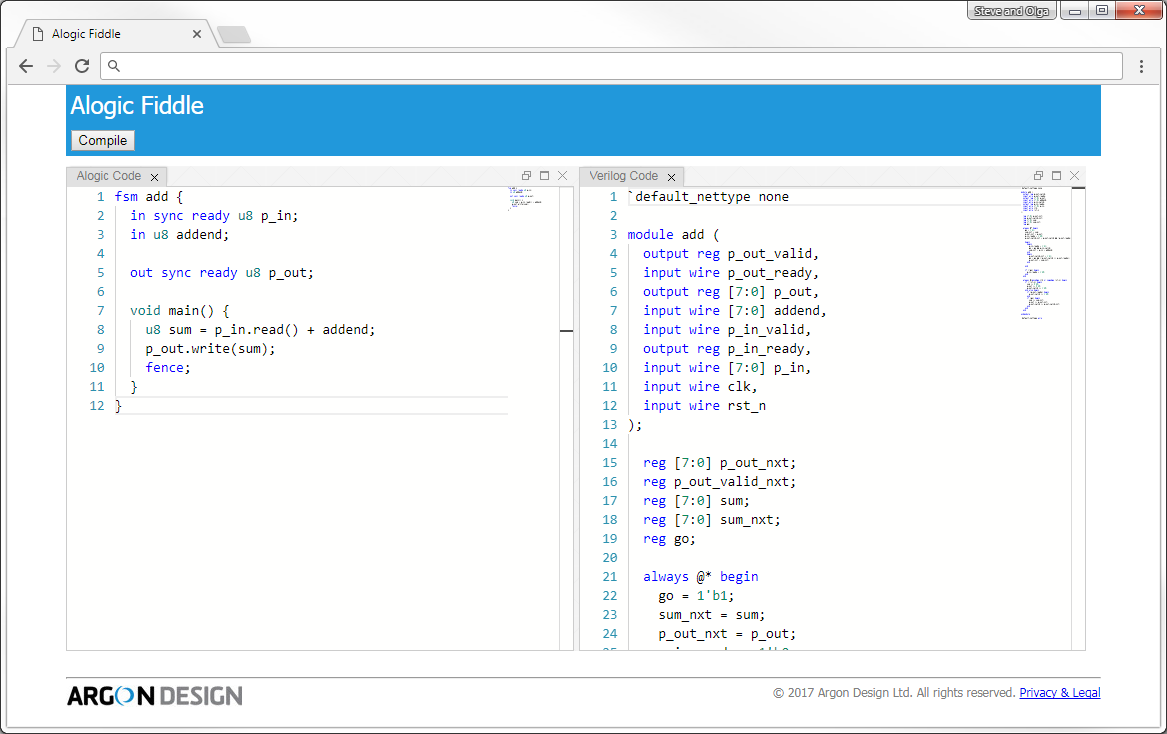
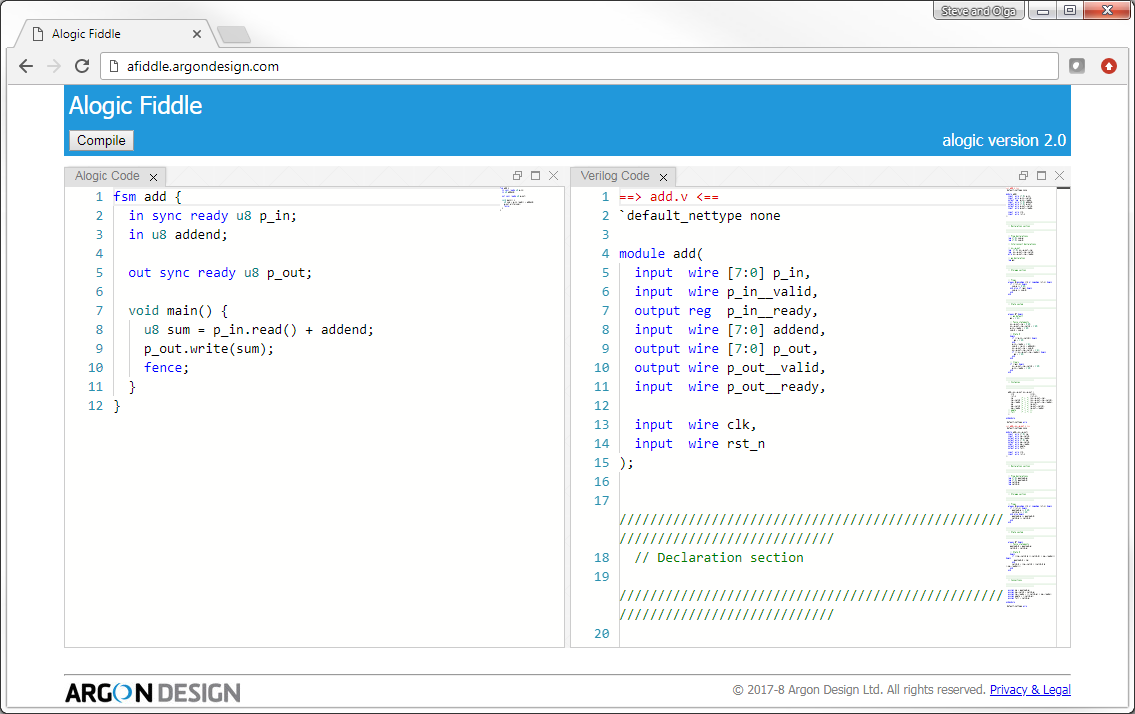
Updated to work with alogic 3.x

diff --git a/app.js b/app.js
@@ -14,6 +14,8 @@
 // Useful websites:
 // https://github.com/ArgonDesign/alogic
 // https://github.com/mattgodbolt/compiler-explorer
+// https://expressjs.com/en/4x/api.html
+// https://codigo.co.uk/blog/post/expressjs-and-moustache
 // https://stackoverflow.com/questions/20643470/execute-a-command-line-binary-with-node-js
 // http://exploringjs.com/es6/ch_promises.html
 // https://stackoverflow.com/questions/40175657/stop-promise-chain-with-multiple-catches
@@ -23,6 +25,7 @@
 
 // External modules used
 const express = require('express')
+const mustacheExpress = require('mustache-express')
 const bodyParser = require('body-parser')
 const fs = require('fs-extra')
 const childProcess = require('child_process')
@@ -73,6 +76,27 @@ function exec (cmd) {
   })
 }
 
+// Find the entity name in an alogic module. The module text is passed as a string
+// in code. Returns the name or if it can't be found, returns null.
+function extractEntityName (code) {
+  // Remove //... comments
+  var tokens = code.replace(/\/\/.*\n/g, '')
+    // Remove /*...*/ comments
+    .replace(/\/\*[^*]*\*\//g, '')
+    // Replace all whitespace with space
+    .replace(/\s/g, ' ')
+    // Tokenise
+    .trim().split(' ')
+  // Get second token
+  var name = tokens[1]
+  // Check name starts with an alphabetic, _ or $ and contains only alphanumerics, _ or $
+  if (name.match(/^[A-Za-z_$][A-Za-z0-9_$]*$/) != null) {
+    return name
+  } else {
+    return null
+  }
+}
+
 // -----------------------------------------------------------------------------
 // Setup for logging
 
@@ -116,9 +140,13 @@ const app = express()
 // Using :req[X-Forwarded-For] rather than :remote-addr so correctly logs IP addresses when used via ngrok
 app.use(morgan(':req[X-Forwarded-For] :method :url :status :response-time ms', { 'stream': logger.stream }))
 
-app.use(express.static('static'))
-app.use(express.static('node_modules'))
-app.use(express.static('bower_components'))
+app.use(express.static(path.join(__dirname, 'static')))
+app.use(express.static(path.join(__dirname, 'node_modules')))
+app.use(express.static(path.join(__dirname, 'bower_components')))
+
+app.engine('mustache', mustacheExpress())
+app.set('view engine', 'mustache')
+app.set('views', path.join(__dirname, 'views'))
 
 app.use(bodyParser.text({ type: 'text/alogic' }))
 
@@ -127,11 +155,21 @@ var runNum = 0
 
 const ALOGIC = path.join(__dirname, 'alogic')
 
+// Get Alogic version string
+var alogicVersion
+exec(ALOGIC + ' --version')
+  .then(function (std) {
+    alogicVersion = std.stdout
+      // Limit to 12 characters
+      .slice(0, 12)
+  }
+)
+
 //
 // *** ENDPOINT '/' - Serve main HTML page
 //
 app.get('/', function (req, res) {
-  res.sendFile('static/index.html', { root: __dirname })
+  res.render('index', { version: alogicVersion })
 })
 
 //
@@ -151,12 +189,13 @@ app.get('/', function (req, res) {
 // Test with curl http://localhost:8000/compile -H content-type:text/alogic --data-binary @test/foo.alogic
 //
 app.post('/compile', function (req, res) {
-  var dir, srcDir, destDir, srcFile
+  var entity, dir, srcDir, destDir, srcFile
   // req.body is {} if the content-type is not recognised so the content couldn't be parsed
   if (isEmpty(req.body)) {
     res.sendStatus(415) // Unsupported media type
   } else {
     logger.log('verbose', 'request:\n' + req.body.trim())
+    entity = extractEntityName(req.body) || 'unknown'
     dir = path.join(RUNPENDIR, pad(runNum, 4))
     runNum += 1
     fs.mkdir(dir)
@@ -169,23 +208,23 @@ app.post('/compile', function (req, res) {
       return fs.mkdir(destDir)
     })
     .then(function () {
-      srcFile = path.join(srcDir, 'input.alogic')
+      srcFile = path.join(srcDir, entity + '.alogic')
       return fs.writeFile(srcFile, req.body)
     })
     .then(function () {
-      return exec(ALOGIC + ' -o ' + destDir + ' ' + srcDir)
+      return exec(ALOGIC + ' -o ' + destDir + ' -y ' + srcDir + ' ' + entity)
       .then(function (std) {
         // Compile success. Results are in files in destDir
         return 'success'
       })
       .catch(function (error) {
-        // alogic compiler reports errors on stdout, rather than stderr
-        var errorMessages = error.stdout
-        // Tidy up path shown in error messages. Convert output like
-        // /home/sjb/P8009_Alogic/afiddle/runpen/0000/alogic/input.alogic:2: ERROR: ...
-        // to input.alogic:2: ERROR: ...
-        var errorMessages1 = errorMessages.replace(/^.*[/]runpen[/]\d\d\d\d[/]alogic[/]/g, '')
-        return errorMessages1
+        // alogic compiler reports errors on stderr
+        var errorMessages = error.stderr
+          // Tidy up path shown in error messages. Convert output like
+          // /home/sjb/P8009_Alogic/afiddle/runpen/0000/alogic/input.alogic:2: ERROR: ...
+          // to input.alogic:2: ERROR: ...
+          .replace(/^.*[/]runpen[/]\d\d\d\d[/]alogic[/]/g, '')
+        return errorMessages
       })
     })
     .then(function (result) {
@@ -196,7 +235,7 @@ app.post('/compile', function (req, res) {
           return std.stdout
         })
       } else {
-        return 'Compilation errors occured:\n' + result
+        return 'Compilation errors occurred:\n' + result
       }
     })
     .then(function (result) {

diff --git a/static/js/index.js b/static/js/index.js
@@ -16,7 +16,7 @@
 // https://github.com/Microsoft/monaco-editor
 // https://stackoverflow.com/questions/38086013/get-the-value-of-monaco-editor
 // https://github.com/Microsoft/monaco-editor/issues/54
-// https://github.com/Microsoft/monaco-editor-samples/blob/master/sample-monarch/index.html
+// https://github.com/Microsoft/monaco-editor-samples/blob/master/browser-amd-editor/index.html
 
 // Tell Standard about globals so it doesn't give lint errors
 /* global monaco */
@@ -73,7 +73,7 @@ require(['jquery', 'goldenlayout', 'vs/editor/editor.main'], function ($, Golden
     // (a) File separator
     verilogSyntax.monarchDefinition.tokenizer.root.unshift([/==>[^<]+<==/, 'constant'])
     // (b) Output is an error list, not Verilog
-    verilogSyntax.monarchDefinition.tokenizer.root.unshift([/Compilation errors occured:/, {token: 'invalid', next: '@errors'}])
+    verilogSyntax.monarchDefinition.tokenizer.root.unshift([/Compilation errors occurred:/, {token: 'invalid', next: '@errors'}])
     verilogSyntax.monarchDefinition.tokenizer.errors = [[/./, 'invalid']]
     // (c) There is no output yet, just the initial message
     verilogSyntax.monarchDefinition.tokenizer.root.unshift([/Verilog code output here\.\.\./, 'attribute'])

diff --git a/static/css/style.css b/static/css/style.css
@@ -36,6 +36,7 @@ div.header h2 {
 }
 div.header table {
     width:100%;
+    table-layout:fixed;
     border-collapse:collapse;
 }    
 div.header td {
@@ -43,6 +44,12 @@ div.header td {
 }
 div.header p {
     margin:0px;
+}
+td.headerCenter {
+    text-align:center;
+}
+td.headerRight {
+    text-align:right;
 }
 
 /* Footer */
@@ -66,4 +73,3 @@ div.footer p {
 td.footerRight {
     text-align:right;
 }
-

diff --git a/static/js/verilog_syntax.js b/static/js/verilog_syntax.js
@@ -94,7 +94,7 @@ define({
     tokenizer: {
       root: [
         // identifiers and keywords
-        [ /[A-Za-z_$]+/, { cases: { '@preprocessorKeywords': 'type',
+        [ /[A-Za-z_$][A-Za-z0-9_$]*/, { cases: { '@preprocessorKeywords': 'type',
           '@keywords': 'keyword',
           '@builtinFunctionKeywords': 'predefined',
           '@default': 'identifier' } } ],

diff --git a/static/js/alogic_syntax.js b/static/js/alogic_syntax.js
@@ -77,7 +77,7 @@ define({
 
         // identifiers and keywords
         [ /@shortTypeKeywords/, 'type' ],
-        [ /[A-Za-z_$]+/, { cases: { '@typeKeywords': 'type',
+        [ /[A-Za-z_$][A-Za-z0-9_$]*/, { cases: { '@typeKeywords': 'type',
           '@keywords': 'keyword',
           '@default': 'identifier' } } ],
 

diff --git a/README.md b/README.md
@@ -49,8 +49,9 @@ Tour of Files
 
 | Directory/file   | Description |
 |------------------|-------------|
-|static/           | Static files served to the client. Contains HTML files and subdirectories for `css`, `images` and `js` files. Look particularly at the main page HTML, `index.html` and the main client-side Javascript, `js/index.js` |
+|static/           | Static files served to the client. Contains static HTML files and subdirectories for `css`, `images` and `js` files. Look particularly at the main client-side Javascript, `js/index.js` |
 |test/             | Short Alogic files used in testing |
+|views/            | Contains main page HTML template `index.mustache` |
 |alogic*           | Script to run Alogic compiler. Also used as `./alogic update` to install/update Alogic from Github |
 |app.js            | Main code of afiddle server |
 |bower.json        | Control file for `bower` which installs/updates client side Javascript libraries. Contains the names and version numbers of all the libraries used. Libraries are downloaded to the directory `bower_components`.
